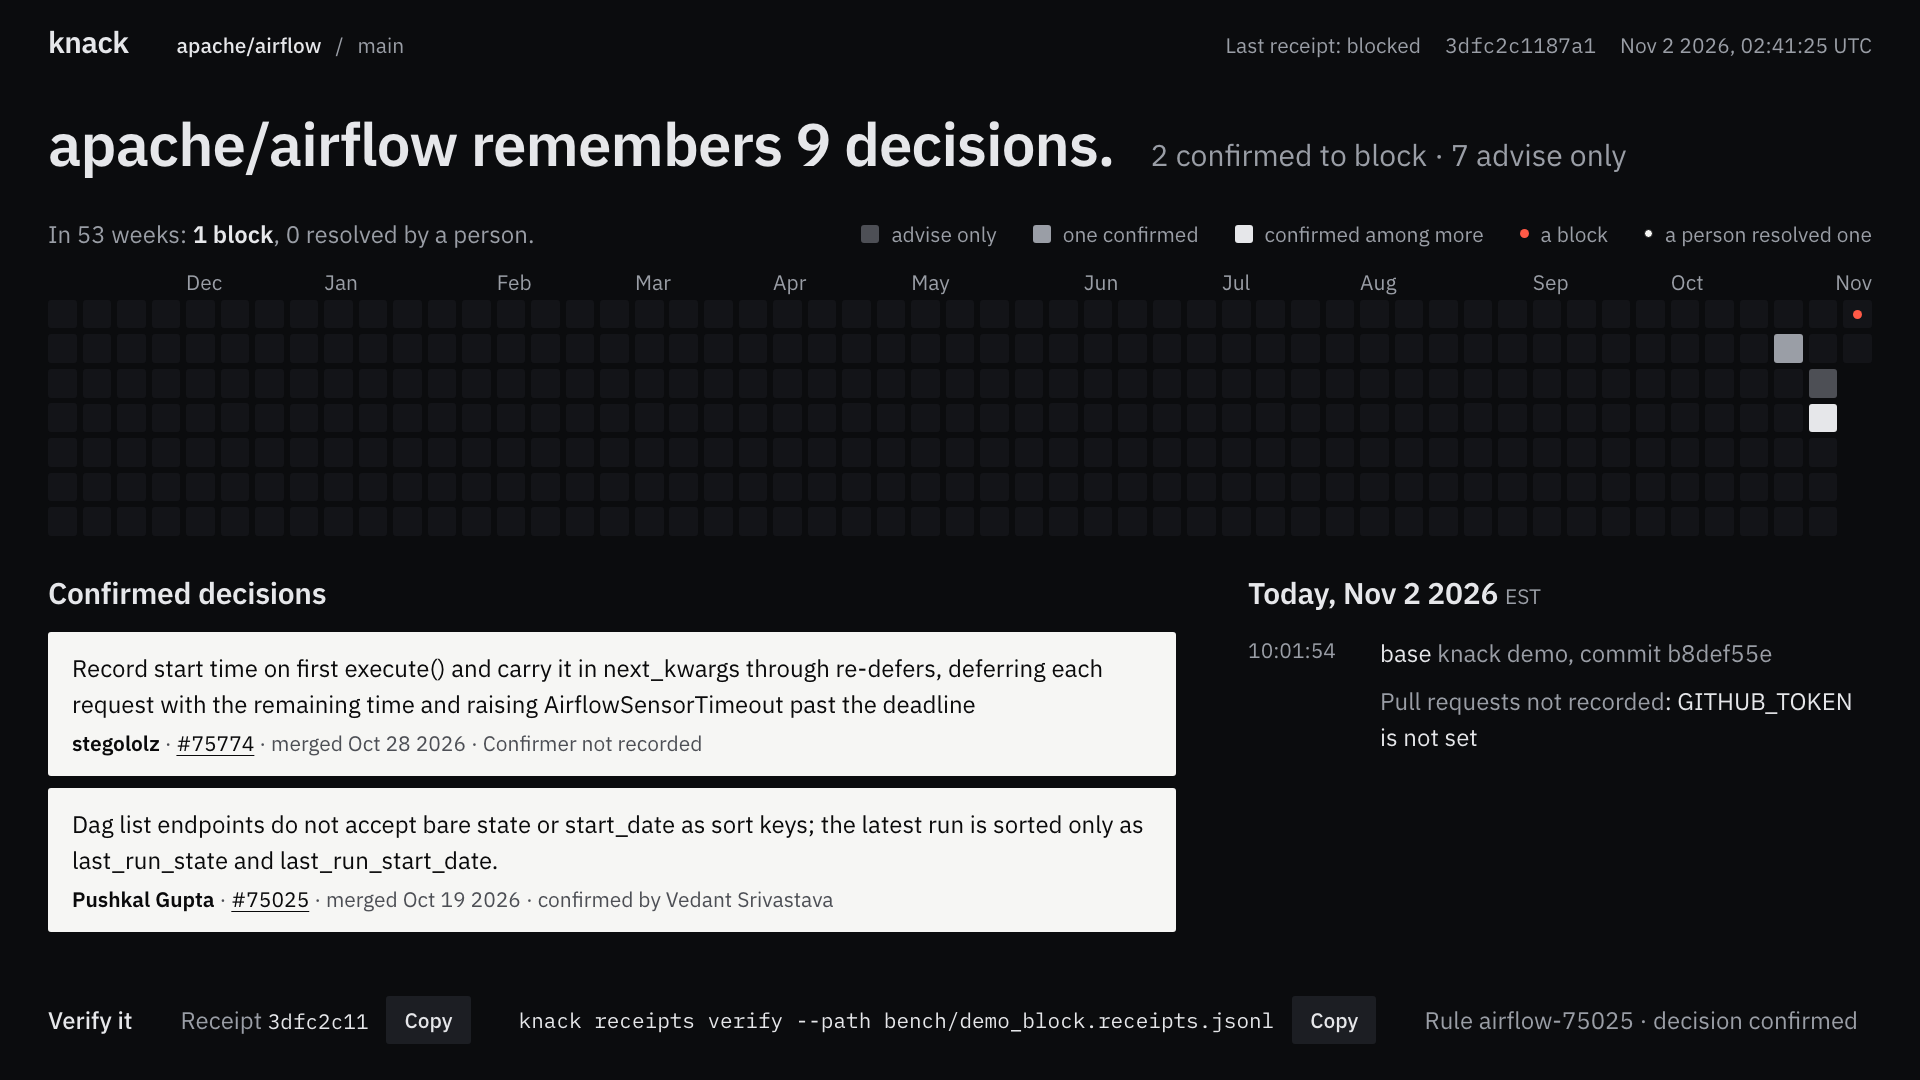
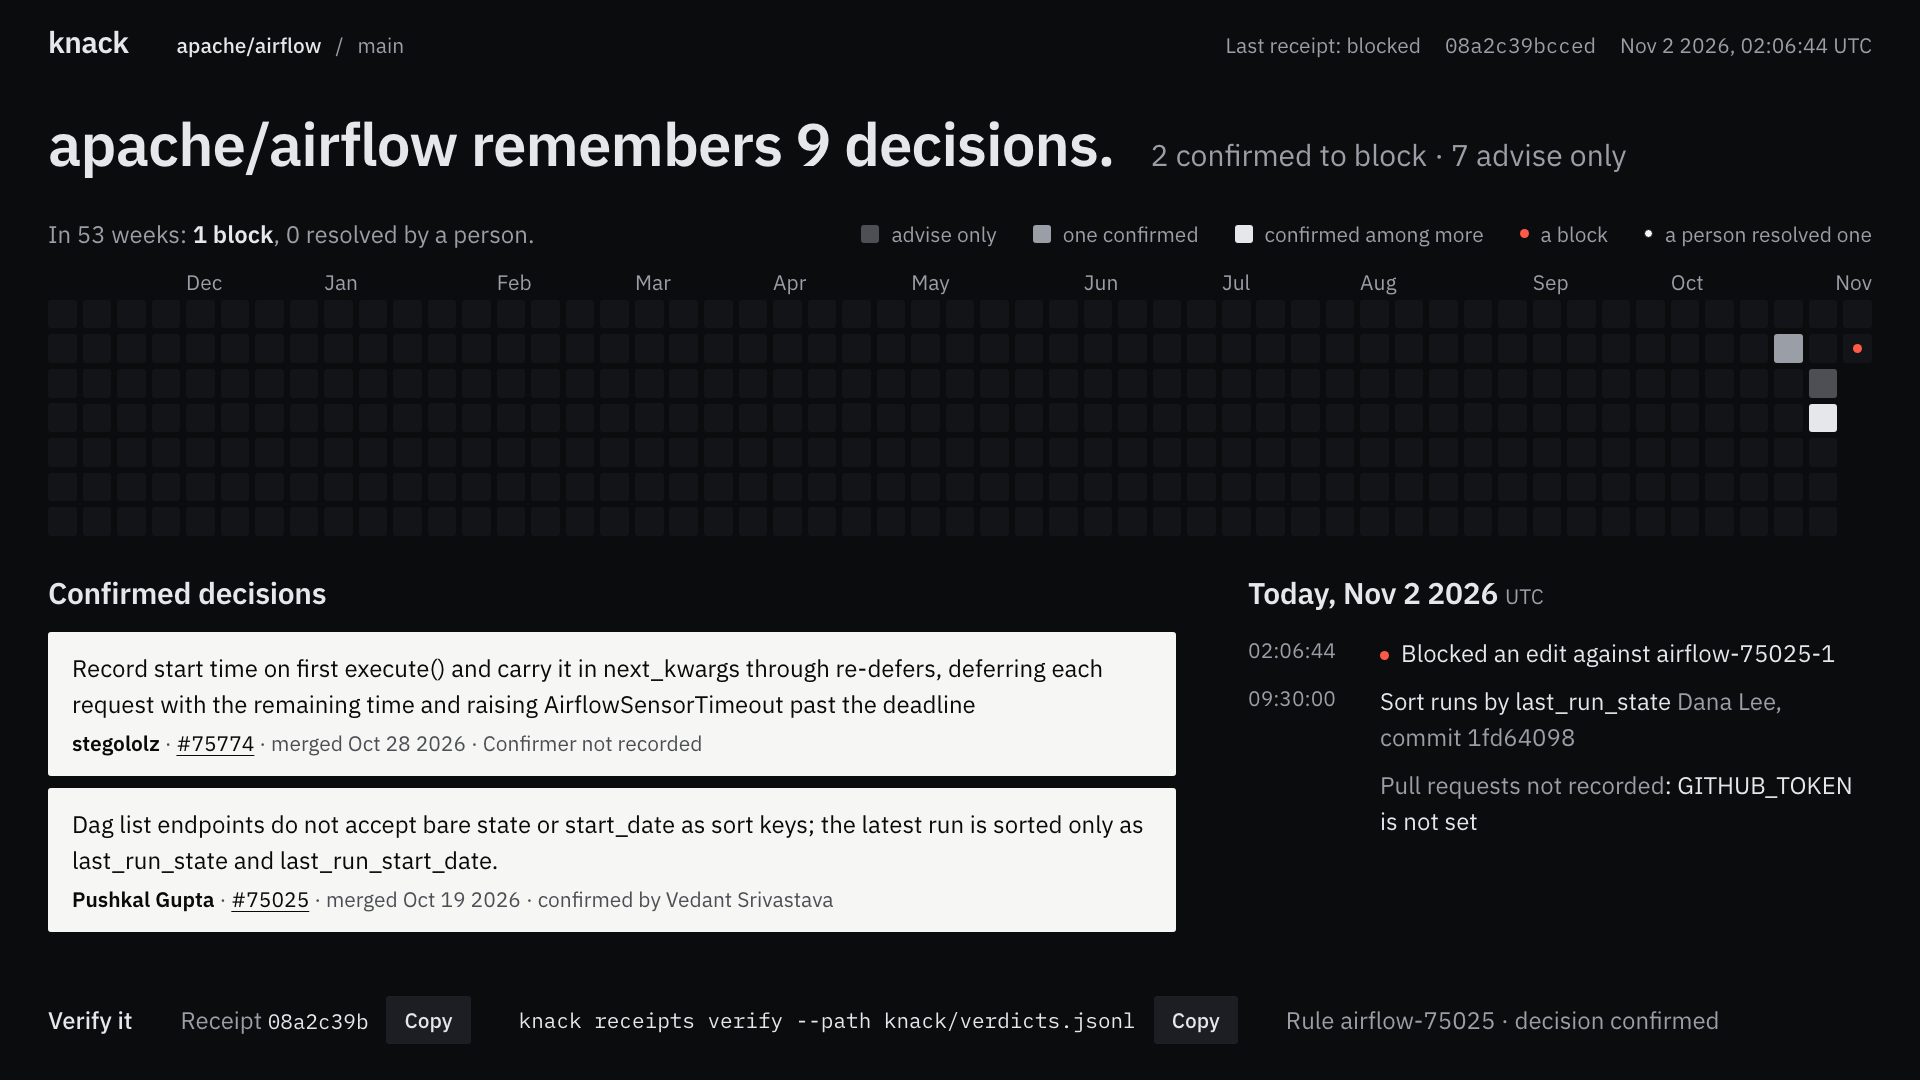
Day page: decision notes read ink on paper; the argue page's .said no longer leaks onto them

diff --git a/knack/console/static/day.css b/knack/console/static/day.css
@@ -44,7 +44,7 @@
 .decisions h2, .today h2 { font-size: var(--type-20); line-height: var(--leading-28); font-weight: var(--weight-bold); letter-spacing: var(--tracking-tight); text-wrap: balance; margin-bottom: var(--space-12); }
 .notes { list-style: none; display: flex; flex-direction: column; gap: var(--space-8); }
 .decision { background: var(--paper); color: var(--ink); border-radius: var(--radius-paper); padding: var(--space-12) var(--space-16); }
-.decision .said { text-wrap: pretty; }
+.decision .words { text-wrap: pretty; }
 .decision .who { margin-top: var(--space-4); font-size: var(--type-14); line-height: var(--leading-20); color: var(--ink-muted); }
 .decision .who b { color: var(--ink); font-weight: var(--weight-bold); }
 .decision .who a { color: var(--ink); }

diff --git a/knack/console/templates/partials/decision.html b/knack/console/templates/partials/decision.html
@@ -1,1 +1,1 @@
-<li class="decision paper"><p class="said">$decision</p><p class="who">$who</p></li>
+<li class="decision paper"><p class="words">$decision</p><p class="who">$who</p></li>

diff --git a/tests/console/test_day_note_paint.py b/tests/console/test_day_note_paint.py
@@ -1,0 +1,59 @@
+import json
+import os
+import subprocess
+import threading
+from collections.abc import Iterator
+from pathlib import Path
+from typing import Any
+
+import pytest
+import uvicorn
+from knack.console.app import create_app
+from test_day_page import DayConsole, POLL
+from tests.console.test_argue_held_fit import needs_browser
+from tests.console.test_screenshot import BROWSERS, free_port, PLAYWRIGHT, wait_for
+
+PAINT = Path(__file__).parent / "paint.mjs"
+# The decision's own words, the first line of each paper note.
+NOTE_TEXT = ".decision > p:first-child"
+
+
+def day_server(world: DayConsole, port: int) -> uvicorn.Server:
+    base = world.receipts.parent
+    places = (world.receipts, base / "warns.jsonl", base / "rulings.jsonl")
+    app = create_app(*places, world.registry_for, world.day(), poll_seconds=POLL)
+    config = uvicorn.Config(app, host="127.0.0.1", port=port, log_level="warning")
+    return uvicorn.Server(config)
+
+
+def started(server: uvicorn.Server) -> threading.Thread:
+    running = threading.Thread(target=server.run, daemon=True)
+    running.start()
+    return running
+
+
+@pytest.fixture(scope="module")
+def day(tmp_path_factory: pytest.TempPathFactory) -> Iterator[str]:
+    port = free_port()
+    server = day_server(DayConsole(tmp_path_factory.mktemp("paint")), port)
+    running = started(server)
+    wait_for(port)
+    yield f"http://127.0.0.1:{port}/"
+    server.should_exit = True
+    running.join()
+
+
+def paint(url: str, width: int, height: int, selector: str) -> dict[str, Any]:
+    found = {"PLAYWRIGHT": PLAYWRIGHT or "", "PLAYWRIGHT_BROWSERS_PATH": BROWSERS}
+    command = ["node", str(PAINT), url, str(width), str(height), selector]
+    done = subprocess.run(command, env=os.environ | found, capture_output=True)
+    assert done.returncode == 0, done.stderr
+    return json.loads(done.stdout)
+
+
+@needs_browser
+@pytest.mark.parametrize("width,height", [(1280, 720), (1920, 1080)])
+def test_the_day_note_reads_ink_on_paper(day: str, width: int, height: int) -> None:
+    found = paint(day, width, height, NOTE_TEXT)
+    assert found["color"] == found["ink"], found
+    assert found["background"] == found["paper"], found

diff --git a/knack/console/NOTES.md b/knack/console/NOTES.md
@@ -189,6 +189,7 @@ Each week's column fades in (opacity only), week n at n × 7 ms for 220 ms, ease
 
 ## Captures
 `mockups/shots/kn93/`: `day-1080p.png`, `day-720p.png`, `-hover` of each (Oct 19), and `day-720p-fade-150ms.png` (mid-fade). Served from a clone with origin apache/airflow, `bench/demo_block.receipts.jsonl` and `data/registry/airflow.json`; no GitHub token, so PRs read as not recorded.
+`day-1080p.png` and `day-720p.png` were shot again on fix/day-said-leak, after the note fix, from the test world in `test_day_page.py` (the 75025 fixture receipts, clock frozen Nov 2 12:00 UTC). The hover and fade shots are still the originals.
 
 ## KN-94: the recovery page (`/recovery/airflow-75025`)
 
@@ -218,7 +219,7 @@ The track fills top to bottom once: `scaleY` 0→1, 1680 ms after a 240 ms wait,
 
 ### Gaps (honest)
 - The run is one frozen run; the page names no other repair.
-- The day page's decision notes render `.said` as console.css's argue card (dark on paper). That predates this ticket and is left alone, since other pages' look must not change here.
+- The day page's decision notes rendered `.said` as console.css's argue card (dark on paper). Fixed on fix/day-said-leak: the note's text is `.words`, ink on paper.
 
 ### Captures
 `mockups/shots/kn94/`: 720p, 1080p, 720p reduced motion, 390 full page, four fill beats at 720p, and the day page with its "rule repaired" link.
